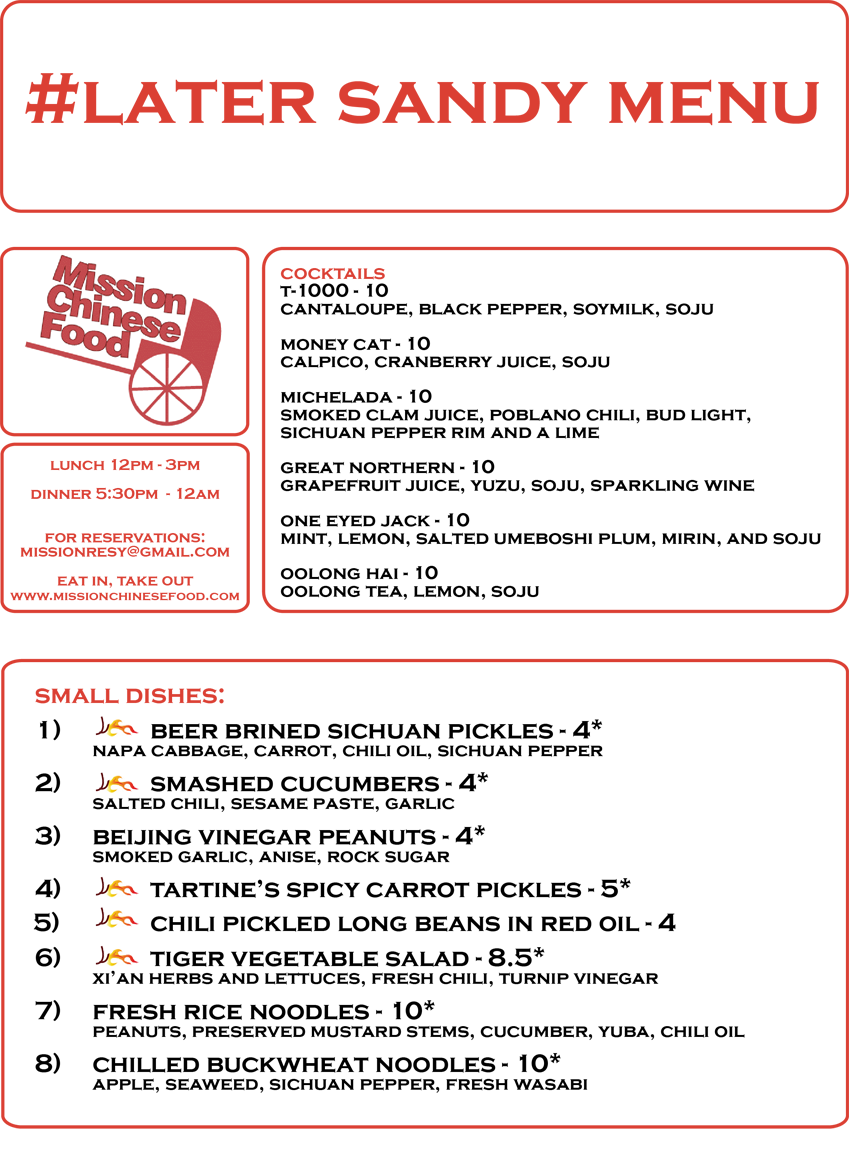
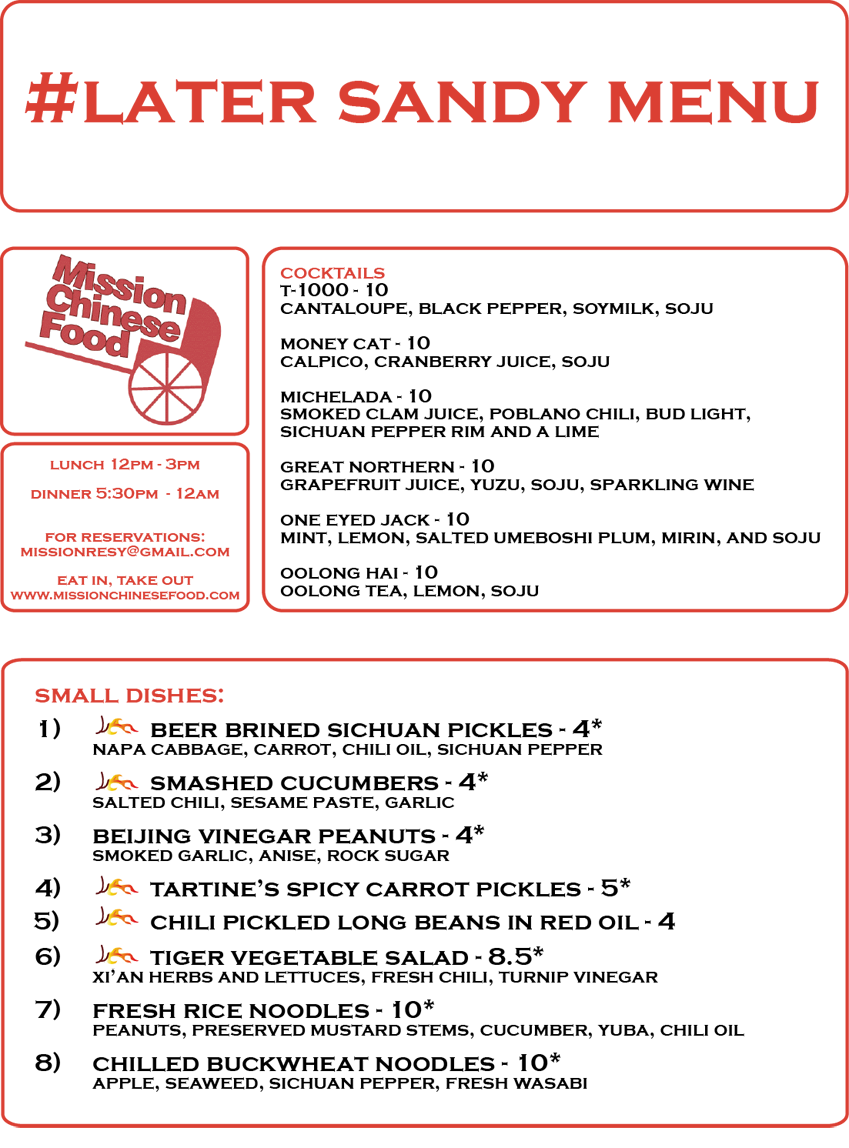
Update "Later Sandy" NY menu

diff --git a/ny/index.html b/ny/index.html
@@ -53,8 +53,8 @@ body {
 <body>
 
 <div id="menu">
-	<img class="well" src="/static/img/nysandymenu1.png?v=0" alt="Menu"  width="849" height="1149" />
-	<img class="well" src="/static/img/nysandymenu2.png?v=0" alt="Menu"  width="849" height="1105" />
+	<img class="well" src="/static/img/nysandymenu1.png?v=1" alt="Menu"  width="849" height="1148" />
+	<img class="well" src="/static/img/nysandymenu2.png?v=1" alt="Menu"  width="849" height="1106" />
 	<p id="footer">154 ORCHARD ST NY NY 10002 BETWEEN RIVINGTON &amp; STANTON ST</p>
 </div>
 
